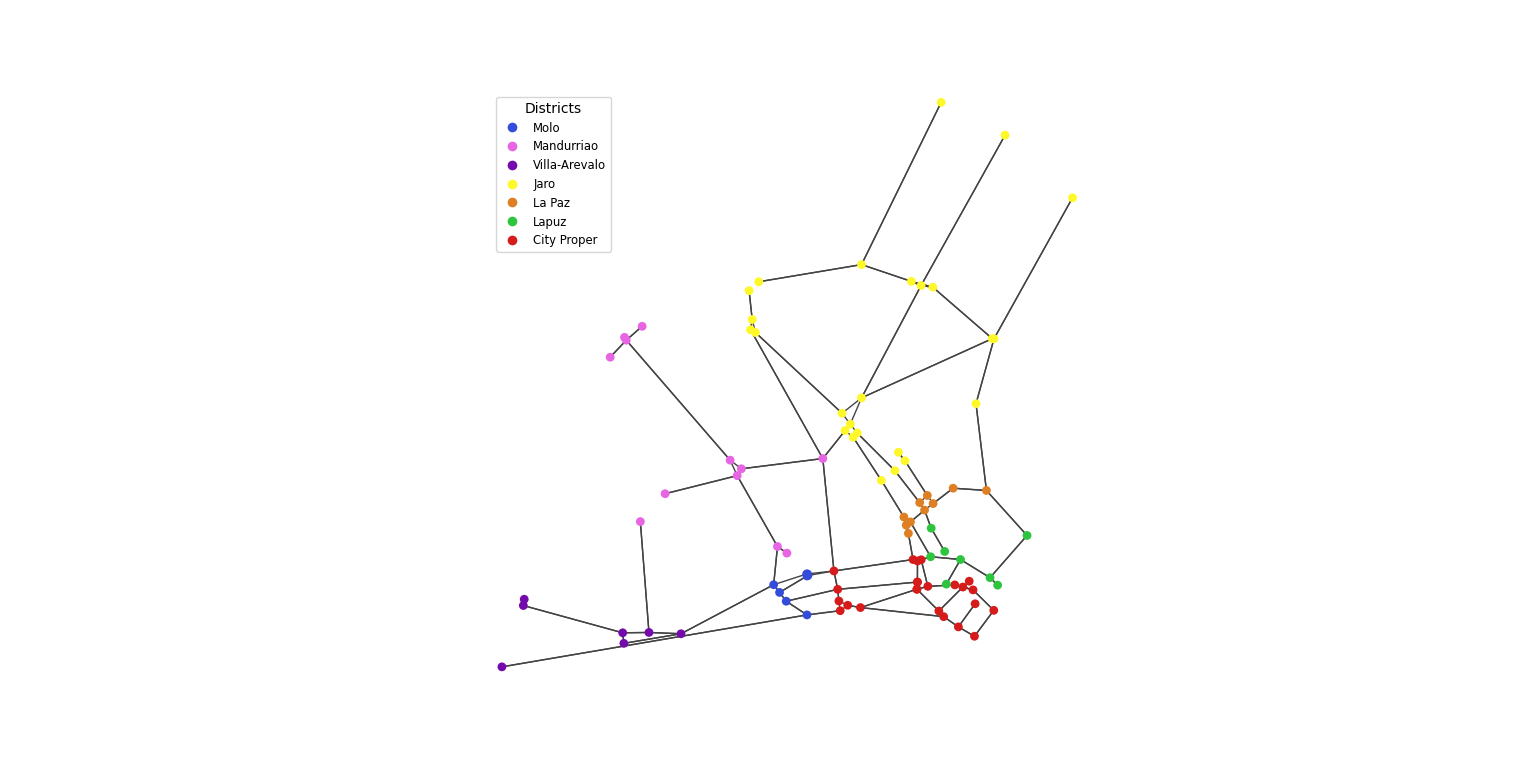
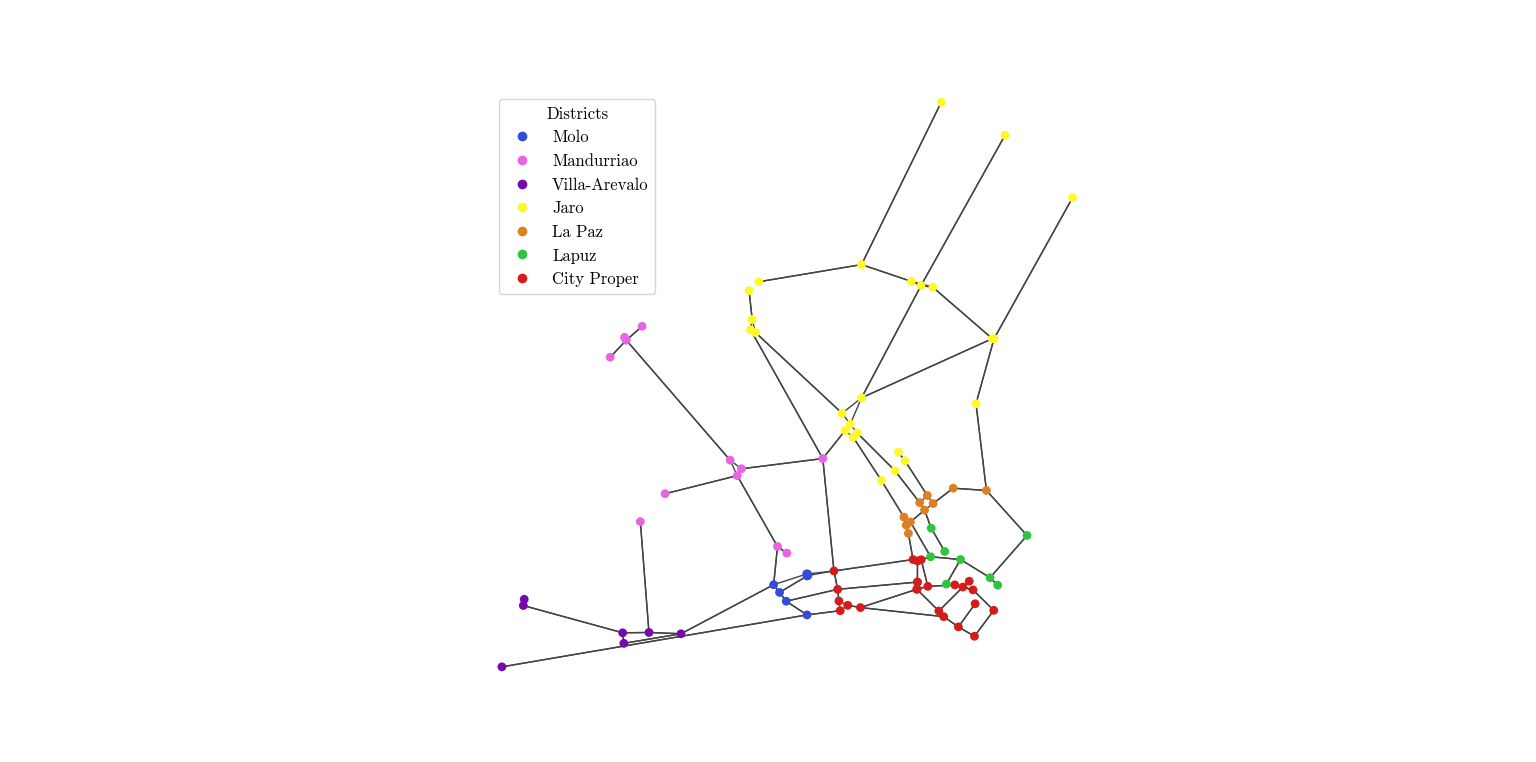
Update Iloilo City Network

Changed region(s): [[0.3125, 0.1207, 0.4062, 0.3924]]

diff --git a/chapter_V/results-and-discussion.tex b/chapter_V/results-and-discussion.tex
@@ -8,7 +8,7 @@ The final network was rendered using OSMnx and Matplotlib, as shown in Figure 5.
 
 \begin{figure}[ht]
     \centering
-    \includegraphics[width=\textwidth, height=7cm]{figures/figure-4.png}
+    \makebox[\textwidth][c]{\includegraphics[width=1.2\textwidth]{figures/figure-4.png}}
     \caption{Iloilo City Network} 
     \label{fig:network_map}
 \end{figure}
